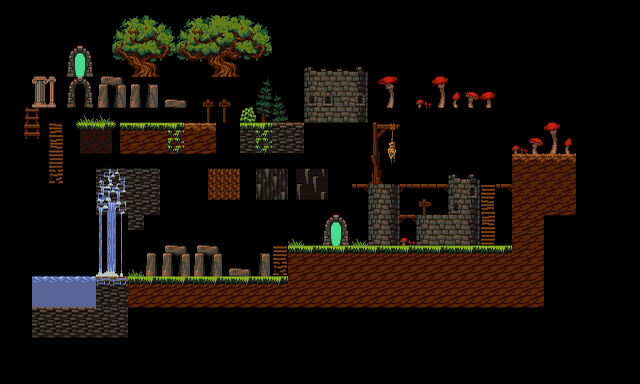
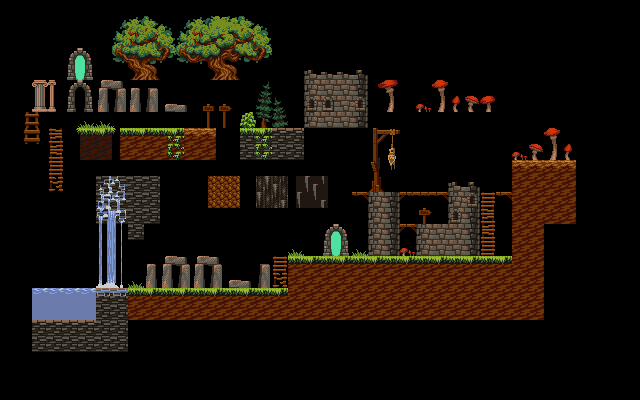
map3

diff --git a/index.html b/index.html
@@ -21,12 +21,12 @@ var game = new Phaser.Game(1000, 1000, Phaser.CANVAS, 'phaser-example', { preloa
 
 function preload() {
 
-    // game.load.tilemap('level1', 'assets/map.json', null, Phaser.Tilemap.TILED_JSON);
-    game.load.tilemap('level1', 'assets/level1.json', null, Phaser.Tilemap.TILED_JSON);
-    // game.load.image('tiles-1', 'assets/generic_platformer_tiles.png');
-    // game.load.image('tiles-2', 'assets/fantasy_tiles.png');
-    // game.load.image('tiles-3', 'assets/platformertiles.png');
-    game.load.image('tiles-1', 'assets/tiles-1.png');
+     game.load.tilemap('level1', 'assets/map3.json', null, Phaser.Tilemap.TILED_JSON);
+//    game.load.tilemap('level1', 'assets/level1.json', null, Phaser.Tilemap.TILED_JSON);
+     game.load.image('tiles-1', 'assets/generic_platformer_tiles.png');
+//     game.load.image('tiles-2', 'assets/fantasy_tiles.png');
+//     game.load.image('tiles-3', 'assets/platformertiles.png');
+//    game.load.image('tiles-4', 'assets/tiles-1.png');
     game.load.spritesheet('dude', 'assets/shooter.png', 68, 78);
     game.load.spritesheet('droid', 'assets/cannibal.png', 32, 32);
     game.load.image('background', 'assets/background2.png');
@@ -62,9 +62,10 @@ function create() {
 //    console.log("props " + map[2])
 
     map.addTilesetImage('tiles-1');
-    // map.addTilesetImage('tiles-2');
-    // map.addTilesetImage('tiles-3');
-
+//     map.addTilesetImage('tiles-2');
+//     map.addTilesetImage('tiles-3');
+//    map.addTilesetImage('tiles-4');
+    
     map.setCollisionByExclusion([ 13, 14, 15, 16, 46, 47, 48, 49, 50, 51 ]);
 
     layer = map.createLayer('Tile Layer 1');
